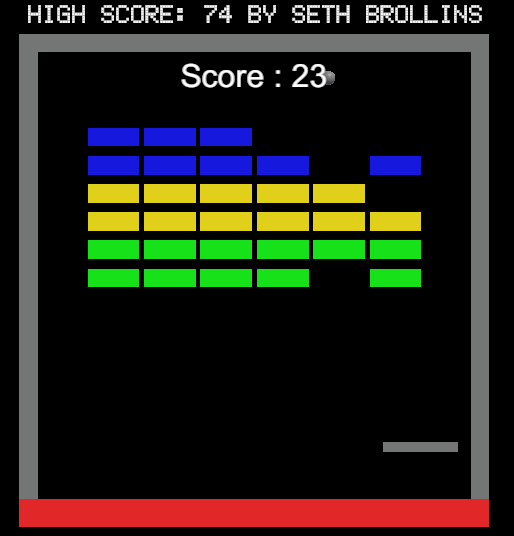
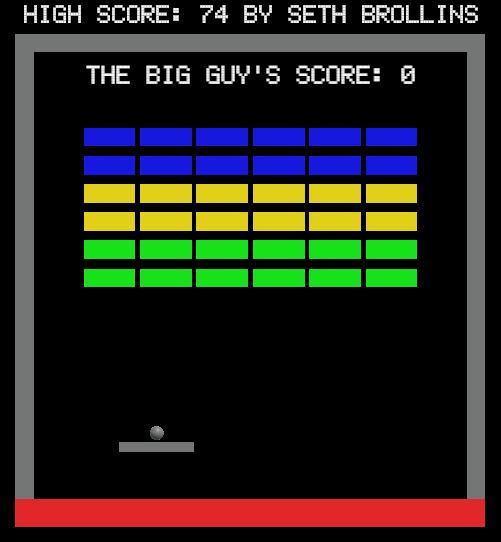
Name Between Scenes Added
Added:
-The player's name is now next to their score, not sure how I missed that at first!

diff --git a/Assets/Scripts/UI/UIGame.cs b/Assets/Scripts/UI/UIGame.cs
@@ -4,6 +4,7 @@ using UnityEngine;
 using UnityEngine.SceneManagement;
 using TMPro;
 using System.Diagnostics.Eventing.Reader;
+using UnityEngine.UI;
 
 public class UIGame : MonoBehaviour
 {
@@ -11,6 +12,7 @@ public class UIGame : MonoBehaviour
     [SerializeField] private GameObject pauseScreen;
     [SerializeField] private List<TextMeshProUGUI> highScorePauseScreenTexts;
     [SerializeField] private TextMeshProUGUI highScoreText;
+    [SerializeField] private Text scoreText;
 
     private string highScoreDescriptionText = "High Score: ";
     private string highScoreSeparatorText = " by ";
@@ -24,6 +26,7 @@ public class UIGame : MonoBehaviour
 
         if(DataManager.Instance != null)
         {
+            scoreText.text = DataManager.Instance.CurrentPlayerName + "'s score: 0";
             UpdateHighScoreText();
         }
         else

diff --git a/Assets/Scripts/MainManager.cs b/Assets/Scripts/MainManager.cs
@@ -70,7 +70,7 @@ public class MainManager : MonoBehaviour
     void AddPoint(int point)
     {
         m_Points += point;
-        ScoreText.text = $"Score : {m_Points}";
+        ScoreText.text = DataManager.Instance.CurrentPlayerName + $"'s Score : {m_Points}";
         
         // If the player manages to get a higher score than the previous high score, update the high score accordingly
         if(DataManager.Instance != null && m_Points > DataManager.Instance.HighPlayerScore[DataManager.Instance.HighPlayerScore.Count - 1])
